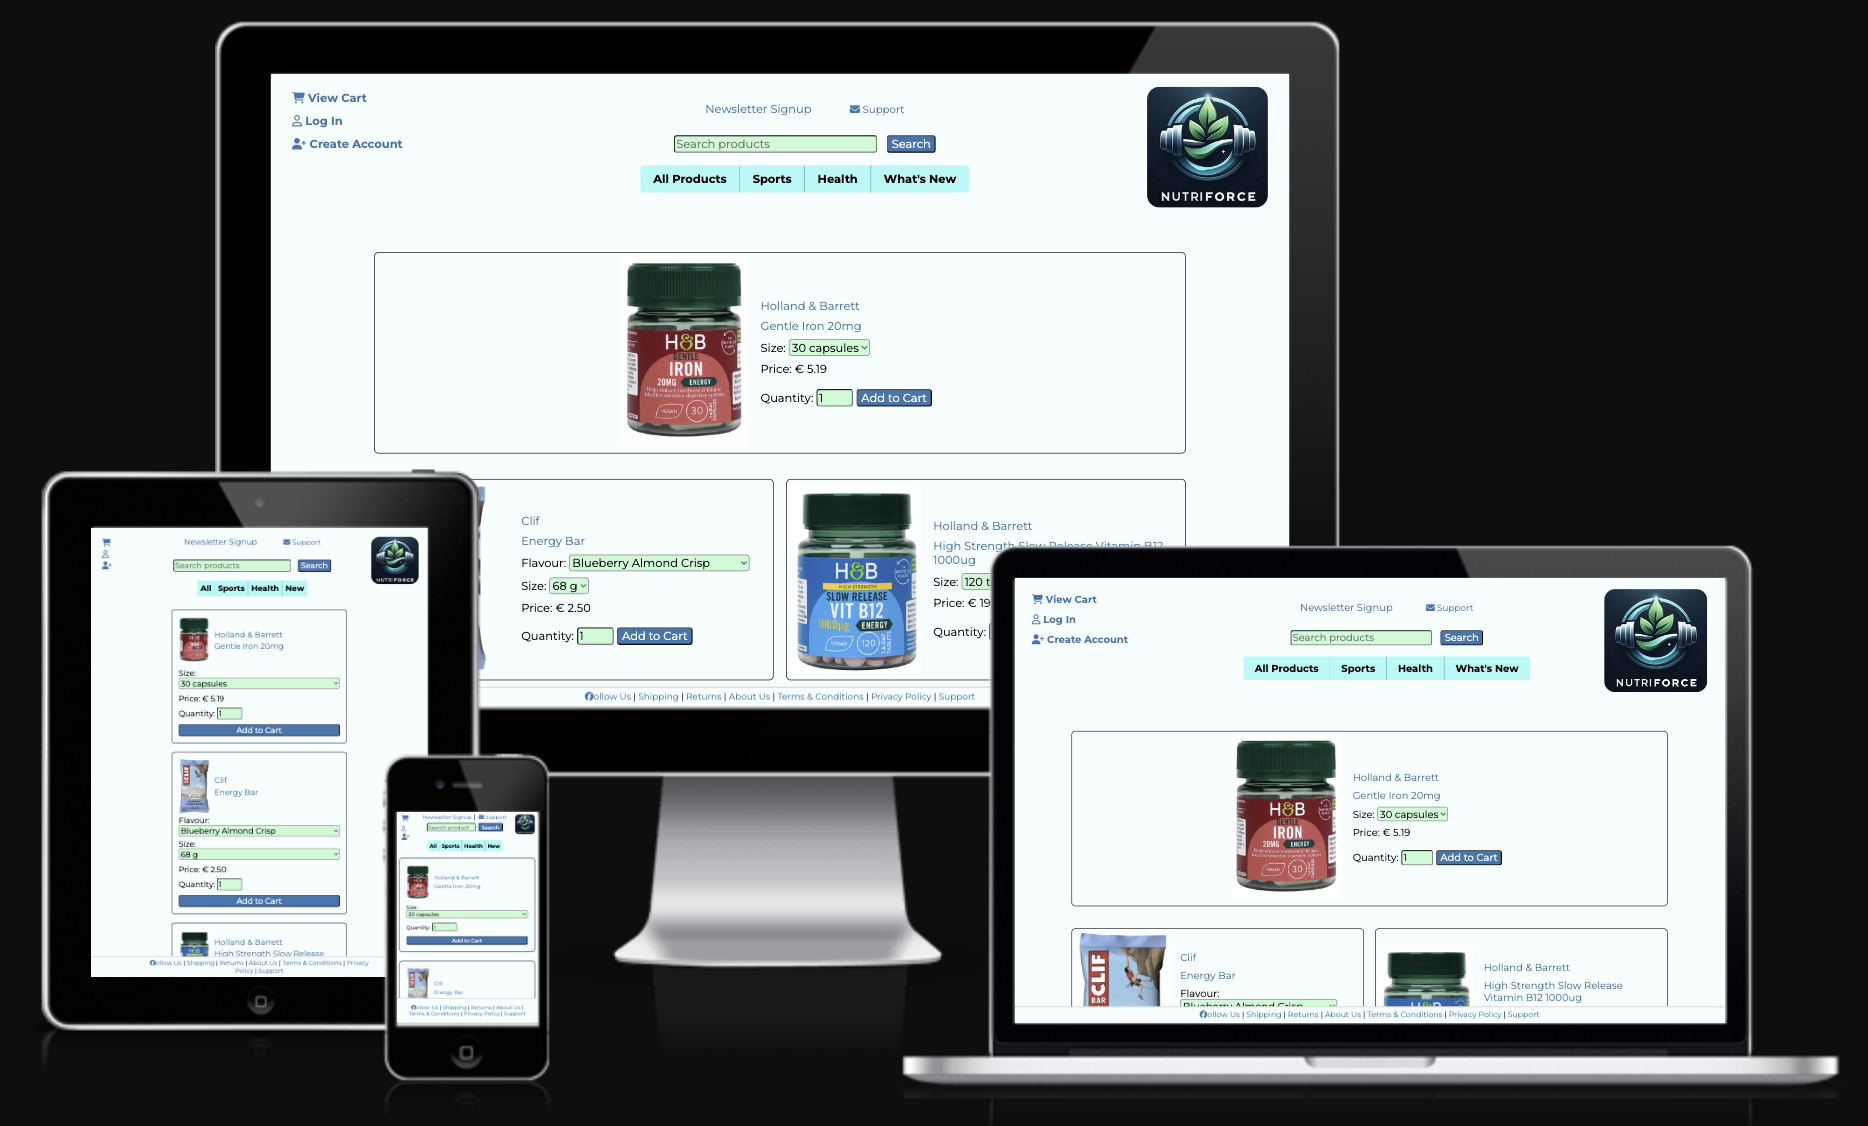
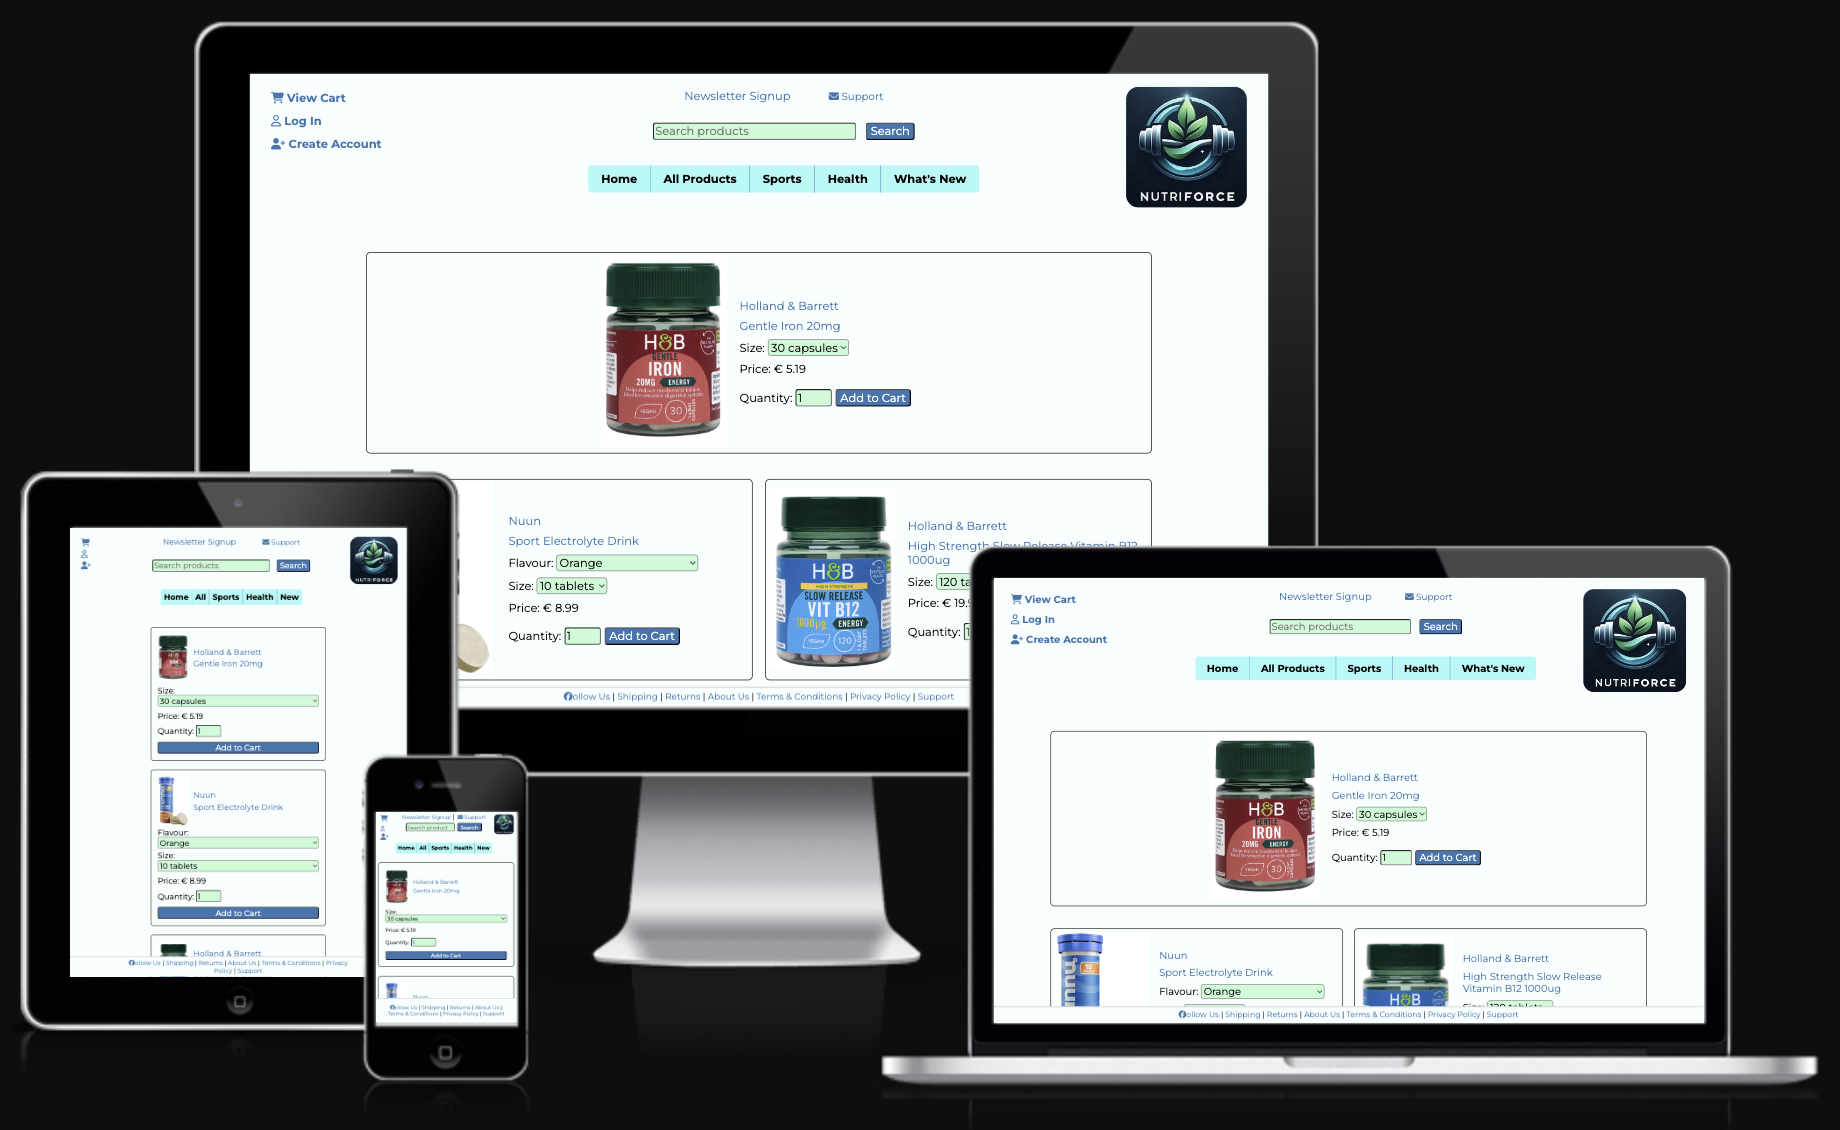
FEAT(readme): updating for new home button

diff --git a/README.md b/README.md
@@ -181,9 +181,10 @@ The [Montserrat Google font](https://fonts.google.com/specimen/Montserrat) is us
 #### Wireframes
 Wireframes were used to plan out the pages for the site. Minor adjustments were made throughout, as the pages were being created. The navigation menu was reorganised in the final site iteration, and differs from the wireframes below as follows:
 1. The Newsletter Signup option was added next to the Support Contact details and both are now above the search bar
-2. The site logo and customer action buttons (view cart, log in, create account) have swapped sides
-3. The customer action buttons all have icons added (instead of only the Cart button)
-4. A Support page was added, and is now linked in the site footer
+2. A "Home" button was added to the main navigation bar.
+3. The site logo and customer action buttons (view cart, log in, create account) have swapped sides
+4. The customer action buttons all have icons added (instead of only the Cart button)
+5. A Support page was added, and is now linked in the site footer
 
 ##### Login / Create Account
 <ins>Login:</ins>
@@ -457,7 +458,7 @@ An admin panel is available for the site owner to view, edit, create, and delete
 ### Manual Testing
 All "Inspector" tests were conducted in Chrome on macOS.
 
-| <p align="center">Function</p> __________________________          | <p align="center">Expectation</p> _______________________________________________________________________                                                                                                                                                                                                                                                                                                                                                                                                                                           | <p align="center">MacOS Safari</p> ______ | <p align="center">iOS Safari</p> ______ | <p align="center">iPadOS Chrome</p> ______ | <p align="center">Windows 11 Edge</p> __________ | <p align="center">Windows 11 Chrome</p> __________  | <p align="center">AndroidOS Chrome</p> _________ | <p align="center">Inspector > 1100px</p> _________ | <p align="center">Inspector < 1100px</p> _________ | <p align="center">Inspector < 800px</p> _________ | <p align="center">Inspector < 500px</p> _________ | <p align="center">Inspector < 310px</p> _________ |
+| <p align="center">Function</p> __________________________          | <p align="center">Expectation</p> _______________________________________________________________________                                                                                                                                                                                                                                                                                                                                                                                                                                           | <p align="center">MacOS Safari</p> ______ | <p align="center">iOS Safari</p> ______ | <p align="center">iPadOS Chrome</p> ______ | <p align="center">Windows 11 Edge</p> __________ | <p align="center">Windows 11 Chrome</p> __________  | <p align="center">AndroidOS Chrome</p> _________ | <p align="center">Inspector > 1100px</p> _________ | <p align="center">Inspector < 1100px</p> _________ | <p align="center">Inspector < 800px</p> _________ | <p align="center">Inspector < 500px</p> _________ | <p align="center">Inspector < 320px</p> _________ |
 |--------------------------------------------------------------------|:----------------------------------------------------------------------------------------------------------------------------------------------------------------------------------------------------------------------------------------------------------------------------------------------------------------------------------------------------------------------------------------------------------------------------------------------------------------------------------------------------------------------------------------------------|:------------------------------------------|:----------------------------------------|:-------------------------------------------|:-------------------------------------------------|:----------------------------------------------------|:-------------------------------------------------|----------------------------------------------------|----------------------------------------------------|---------------------------------------------------|---------------------------------------------------|---------------------------------------------------|
 | JavaScript mailto modals                                           | These are used on various pages throughout the site. "click here" in the modal text is a mailto link. It should open a draft email to the support contact email in the local mail client. Depending on the scenario, the draft email will also have an auto-filled email subject and email body. Clicking the email address in the modal text should copy it to clipboard and show a "Copied!" message below the text. The modal itself and/or the mailto link may not work, depending on user's browser and system settings, e.g. blocked pop-ups. | &check;                                   | &check;                                 | &check;                                    | &check;                                          | &check;                                             | &check;                                          | &check;                                            | &check;                                            | &check;                                           | &check;                                           | &check;                                           |
 | csrf errors - view                                                 | Any csrf errors on the site should direct to the custom view.                                                                                                                                                                                                                                                                                                                                                                                                                                                                                       | &check;                                   | &check;                                 | &check;                                    | &check;                                          | &check;                                             | &check;                                          | &check;                                            | &check;                                            | &check;                                           | &check;                                           | &check;                                           |
@@ -480,7 +481,7 @@ All "Inspector" tests were conducted in Chrome on macOS.
 | Navigation bar - larger screen sizing                              | Widths < 1100px should reduce the center nav button padding.                                                                                                                                                                                                                                                                                                                                                                                                                                                                                        | &check;                                   | N/A                                     | &check;                                    | &check;                                          | &check;                                             | N/A                                              | &check;                                            | &check;                                            | &check;                                           | &check;                                           | &check;                                           |
 | Navigation bar - mid-screen sizing                                 | Widths < 800px should remove text from the nav-left to leave only icons, and change center nav button text to shortened versions.                                                                                                                                                                                                                                                                                                                                                                                                                   | &check;                                   | N/A                                     | N/A                                        | &check;                                          | &check;                                             | N/A                                              | &check;                                            | &check;                                            | &check;                                           | &check;                                           | &check;                                           |
 | Navigation bar - small-screen sizing                               | Widths < 500px should reduce center button padding further and reduce overall font size.                                                                                                                                                                                                                                                                                                                                                                                                                                                            | &check;                                   | &check;                                 | N/A                                        | &check;                                          | &check;                                             | &check;                                          | &check;                                            | &check;                                            | &check;                                           | &check;                                           | &check;                                           |
-| Navigation bar - smallest screen sizing                            | Widths < 310px change the top middle links (newsletter and support) to colum flex-direction and reduce paddings and margins.                                                                                                                                                                                                                                                                                                                                                                                                                        | &check;                                   | N/A                                     | N/A                                        | &check;                                          | &check;                                             | N/A                                              | &check;                                            | &check;                                            | &check;                                           | &check;                                           | &check;                                           |
+| Navigation bar - smallest screen sizing                            | Widths < 320px change the top middle links (newsletter and support) to colum flex-direction and reduce paddings and margins.                                                                                                                                                                                                                                                                                                                                                                                                                        | &check;                                   | N/A                                     | N/A                                        | &check;                                          | &check;                                             | N/A                                              | &check;                                            | &check;                                            | &check;                                           | &check;                                           | &check;                                           |
 | Support - link and modal                                           | When clicking the link, a mailto modal should open with support contact details.                                                                                                                                                                                                                                                                                                                                                                                                                                                                    | &check;                                   | &check;                                 | &check;                                    | &check;                                          | &check;                                             | &check;                                          | &check;                                            | &check;                                            | &check;                                           | &check;                                           | &check;                                           |
 | Newsletter signup - modal                                          | Clicking the Newsletter Signup link should open a modal asking the user to enter their email address and provide a "Subscribe" button.                                                                                                                                                                                                                                                                                                                                                                                                              | &check;                                   | &check;                                 | &check;                                    | &check;                                          | &check;                                             | &check;                                          | &check;                                            | &check;                                            | &check;                                           | &check;                                           | &check;                                           |
 | Newsletter signup - empty input                                    | Empty inputs should show an error to the user (on the current page, not in the modal).                                                                                                                                                                                                                                                                                                                                                                                                                                                              | &check;                                   | &check;                                 | &check;                                    | &check;                                          | &check;                                             | &check;                                          | &check;                                            | &check;                                            | &check;                                           | &check;                                           | &check;                                           |
@@ -666,11 +667,11 @@ No errors and no other warnings were displayed.
 <img src='media/readme/html-passed.webp' alt='Nu HTML Checker passed'>
 
 #### CSS
-Contents of every CSS file validate without errors.
+Contents of every CSS file validate using [Jigsaw](https://jigsaw.w3.org/css-validator/#validate_by_input) without errors.
 <img src='media/readme/w3c.webp' alt='W3C CSS Checker results'>
 
 #### JSHint
-[JSHint](https://jshint.com/) mentions "undefined variables", however they are all from JQuery ($), the base.js file (prvWidth) that is pre-loaded separately, or the HTML file (json_addr). "unused variables" are also mentioned, but they are used in the HTML files as on-click functions.
+All JavaScript files were checked using [JSHint](https://jshint.com/). It mentions "undefined variables", however they are all from JQuery ($), the base.js file (prvWidth) that is pre-loaded separately, or the HTML file (json_addr). "unused variables" are also mentioned, but they are used in the HTML files as on-click functions.
 
 5 warnings from JSHint remain:
 - Use ES10 for optional catch binding (catch binding works on the live site without issue)
@@ -689,15 +690,15 @@ checkout.py:
 <img src='media/readme/jshint-checkout.webp' alt='JSHint checkout errors'>
 
 #### PEP8
-The only errors from [PEP8](https://pep8ci.herokuapp.com/) are from Django "AUTH_PASSWORD_VALIDATORS" in the settings.py file (lines too long).
+All python files were checked using [PEP8](https://pep8ci.herokuapp.com/). The only errors are from Django "AUTH_PASSWORD_VALIDATORS" in the settings.py file (lines too long).
 <img src='media/readme/pep8.webp' alt='PEP8 validator results'>
 
 #### WAVE
-The majority of issues were contrast errors. Styling on the site was updated to alleviate this for better accessibility.
+WAVE was used on each page of the site. The majority of issues were contrast errors. Styling on the site was updated to alleviate this for better accessibility.
 <img src='media/readme/validator-wave.webp' alt='WAVE validator results'>
 
 #### Lighthouse
-Several performance issues (most notably on [All Products](#all-products)) are due to HTTP/1.1 requests, unused JavaScript (stripe), and render-blocking resources, that are all necessary. Amazon S3 does not support HTTP/2, so [an enhancement was raised](https://github.com/crazycooky77/ci_project5/issues/49) to potentially switch over to [Amazon CloudFront](https://aws.amazon.com/ru/blogs/aws/new-http2-support-for-cloudfront/), which seems even more cost-effective.
+All pages were checked using Lighthouse. Several performance issues (most notably on [All Products](#all-products)) are due to HTTP/1.1 requests, unused JavaScript (stripe), and render-blocking resources, that are all necessary. Amazon S3 does not support HTTP/2, so [an enhancement was raised](https://github.com/crazycooky77/ci_project5/issues/49) to potentially switch over to [Amazon CloudFront](https://aws.amazon.com/ru/blogs/aws/new-http2-support-for-cloudfront/), which seems even more cost-effective.
 
 ##### Homepage
 <img src='media/readme/lh-home.webp' alt='Lighthouse homepage results'>
